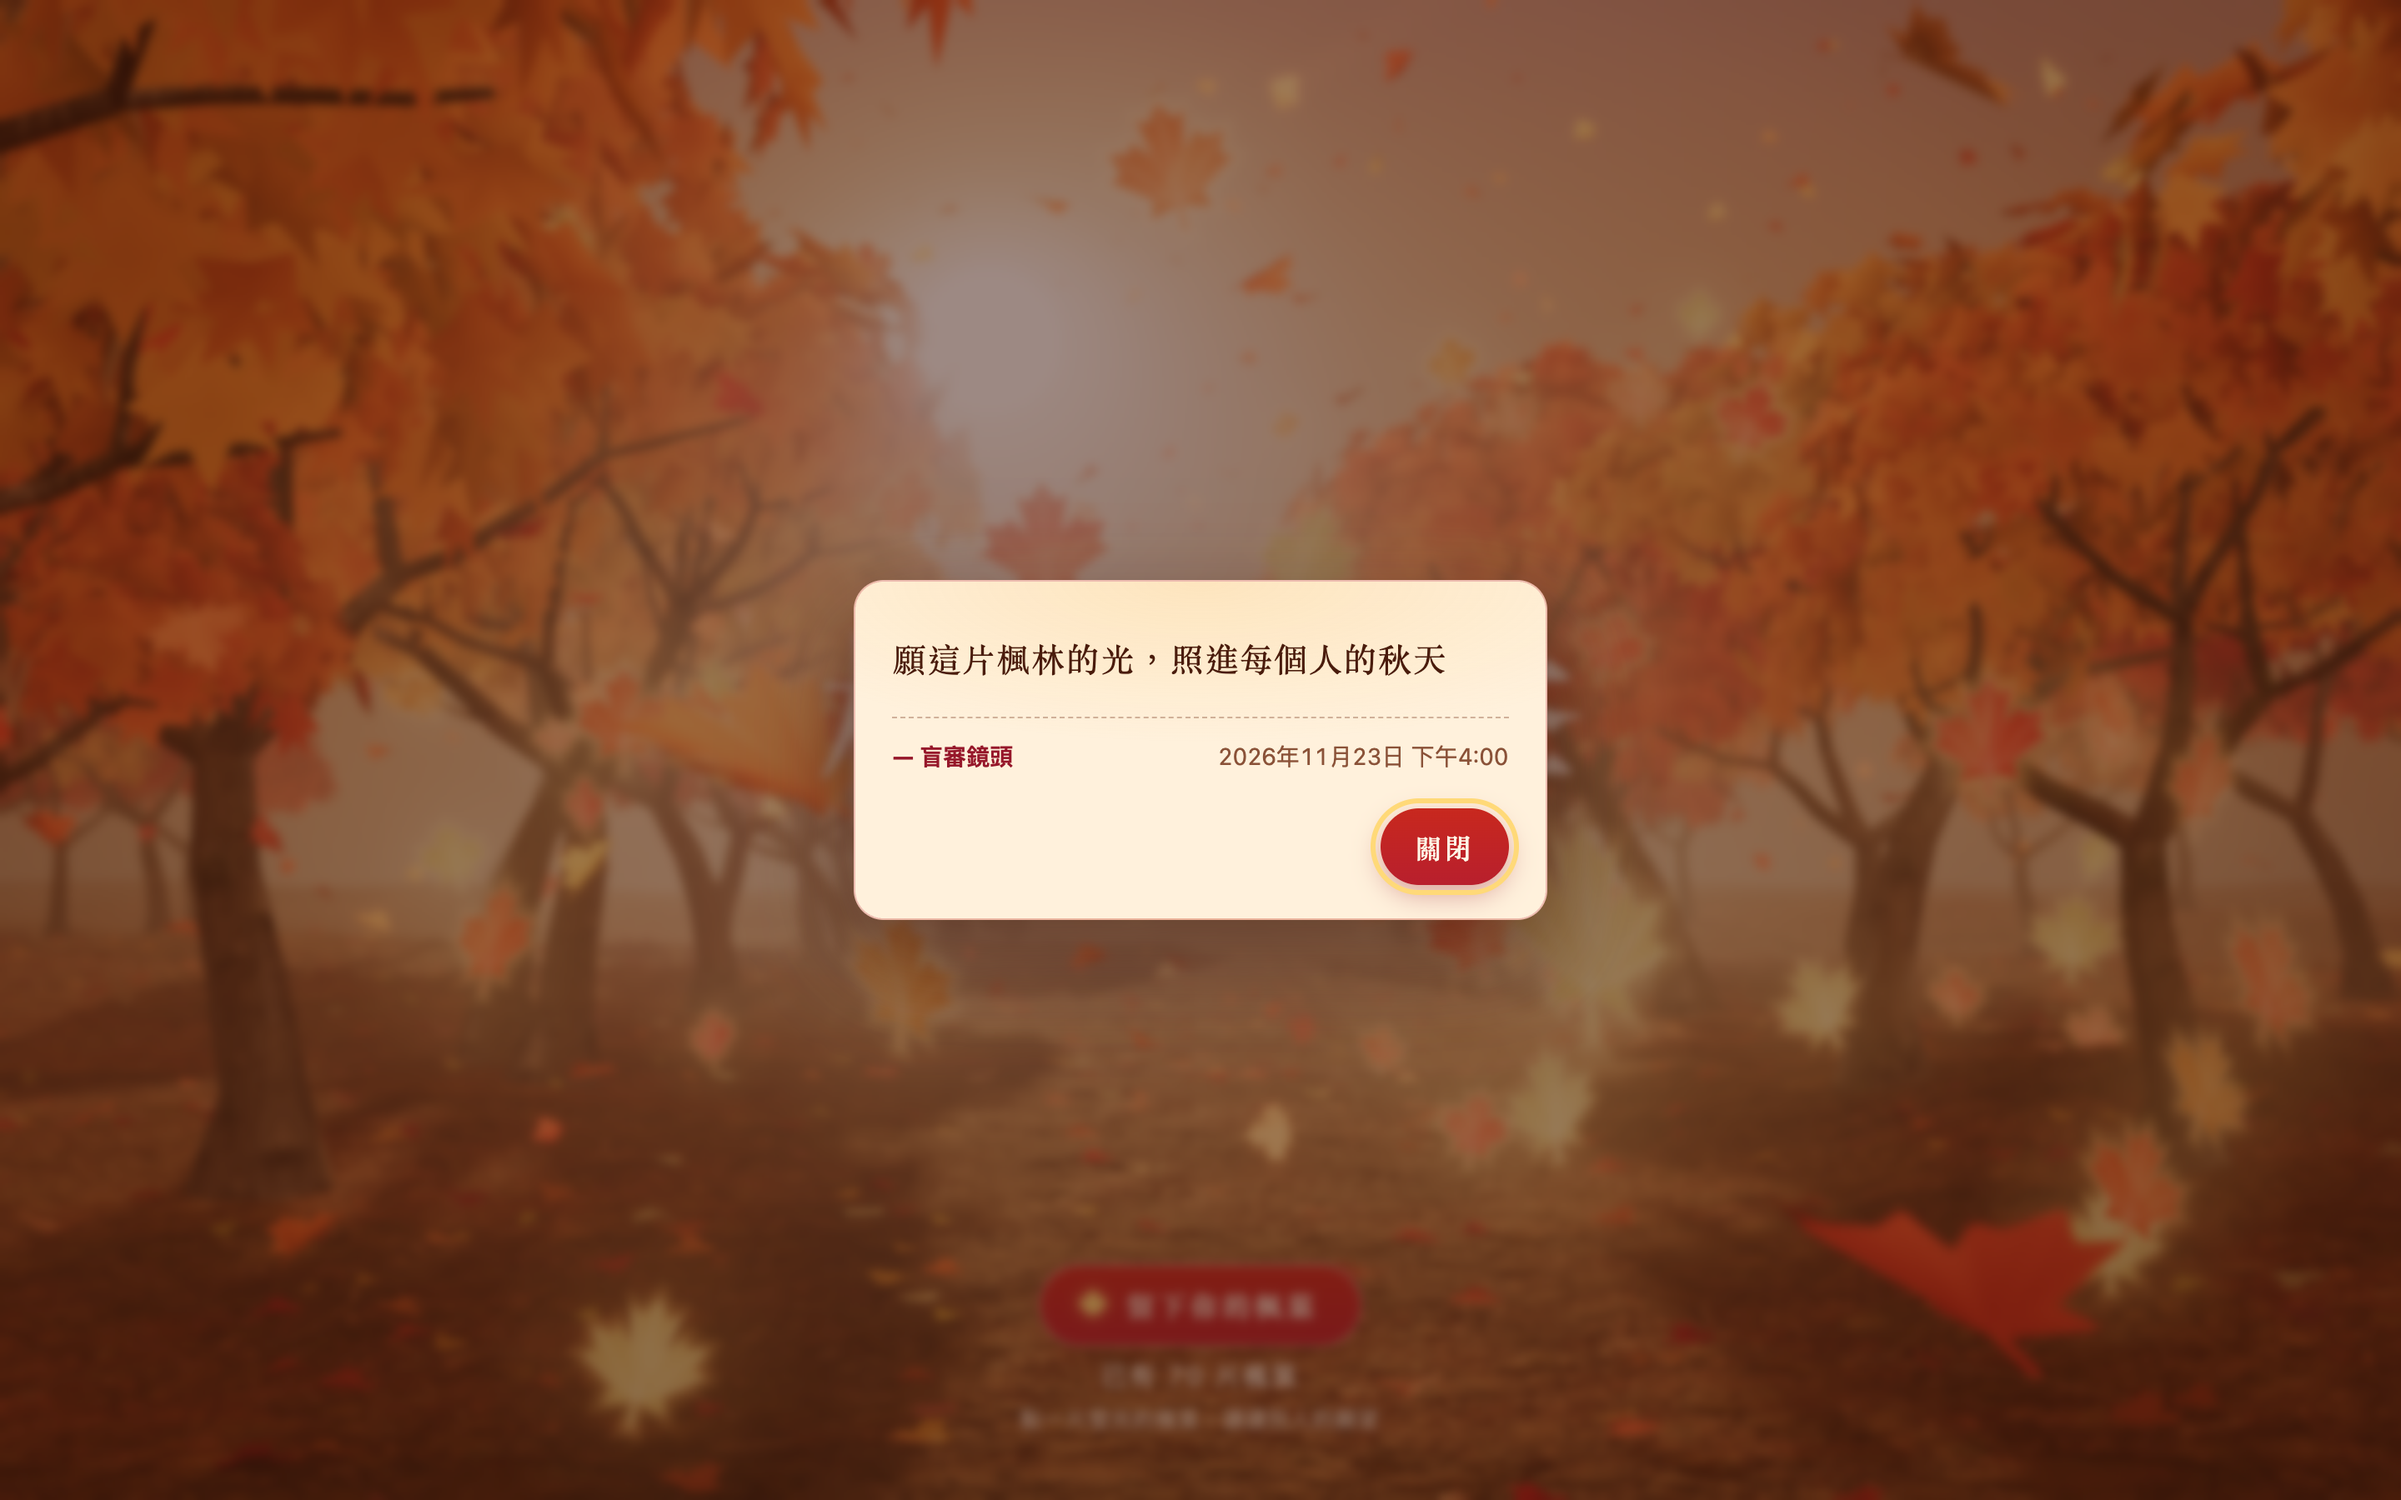
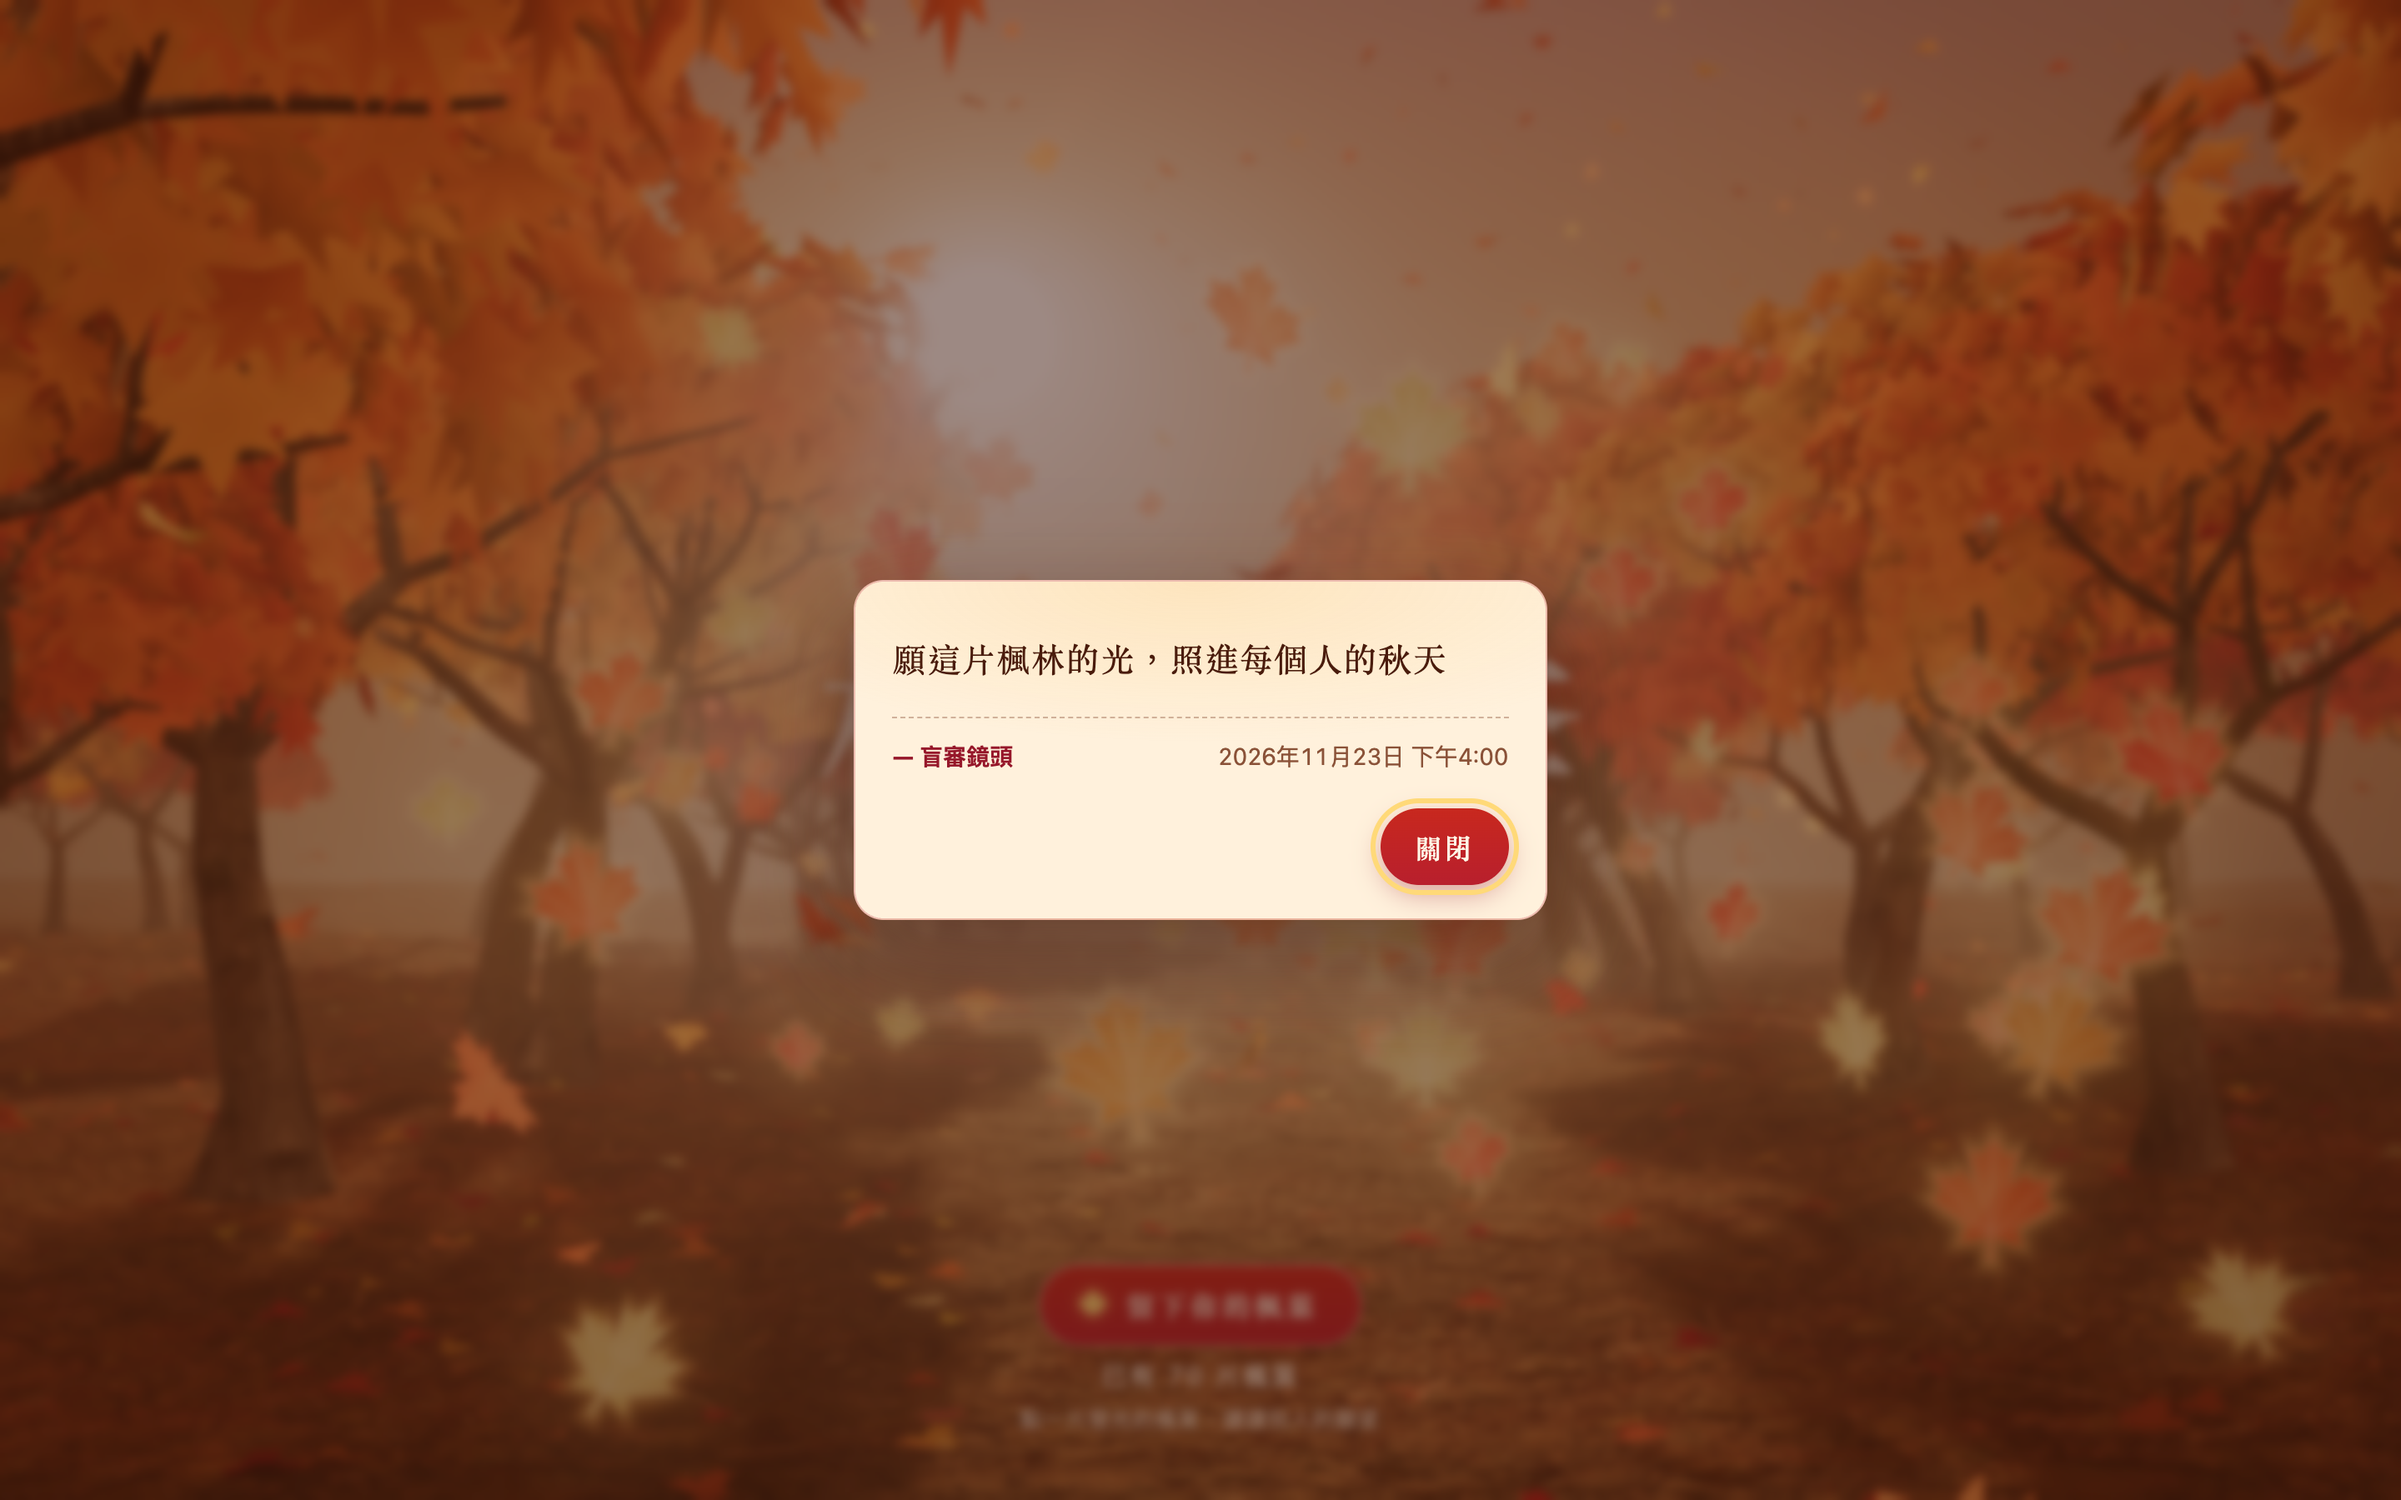
Visual r2: cheaper komorebi (shared warp/noise), fewer extra canopy leaves; comparison images and regression shots

diff --git a/src/komorebi.js b/src/komorebi.js
@@ -27,28 +27,29 @@ export const KOMOREBI_GLSL = /* glsl */ `
     return mix( mix( komorebiHash( i ), komorebiHash( i + vec2( 1.0, 0.0 ) ), u.x ),
                 mix( komorebiHash( i + vec2( 0.0, 1.0 ) ), komorebiHash( i + vec2( 1.0, 1.0 ) ), u.x ), u.y );
   }
-  // 葉縫圖樣：0..1，sharp 越大斑點越小越銳利
-  float komorebiGaps( vec3 worldPos, float threshold ) {
-    vec2 q = worldPos.xz + KOMOREBI_SUN.xz * ( ( 4.2 - worldPos.y ) / KOMOREBI_SUN.y );
-    float t = uKomorebiTime;
-    // 樹葉隨風晃動：葉縫的位置小幅來回擺動，不是整片平移
-    vec2 sway = vec2( sin( t * 0.9 + q.y * 0.35 ), cos( t * 0.7 + q.x * 0.31 ) ) * 0.08;
-    vec2 p = q * 2.6 + sway;
-    // domain warp：打散光斑的排列，不會一列一列像蓋章
-    p += vec2( komorebiNoise( q * 0.7 ), komorebiNoise( q * 0.7 + 5.2 ) ) * 1.8;
-    float gaps = komorebiNoise( p ) * 0.6 + komorebiNoise( p * 2.4 + 7.1 + sway * 2.0 ) * 0.4;
-    return smoothstep( threshold, threshold + 0.08, gaps );
-  }
   /**
    * 太陽直射光（已含陰影）換成有光斑的版本。
    * lit：已含陰影的光；open：沒有陰影時的光（太陽本身的顏色）；cover：抬頭是否有樹冠。
    * 照得到的地方：葉影把光打散成斑駁的一塊一塊；
    * 樹冠陰影裡：從葉縫漏下來的小光斑（太陽的針孔成像，沿光線方向拉長）。
+   * 兩種圖樣共用同一次投影與 domain warp（地面每個像素都要算，盡量省）。
    */
   vec3 komorebi( vec3 worldPos, vec3 lit, vec3 open, float cover ) {
     if ( cover < 0.01 ) return lit;
-    float dapple = mix( 0.3, 1.5, komorebiGaps( worldPos, 0.5 ) );
-    vec3 spots = open * komorebiGaps( worldPos + vec3( 3.7, 0.0, 1.3 ), 0.72 ) * 0.9;
+    // 沿太陽方向投到樹冠高度的平面
+    vec2 q = worldPos.xz + KOMOREBI_SUN.xz * ( ( 4.2 - worldPos.y ) / KOMOREBI_SUN.y );
+    float t = uKomorebiTime;
+    // 樹葉隨風晃動：葉縫的位置小幅來回擺動，不是整片平移
+    vec2 sway = vec2( sin( t * 0.9 + q.y * 0.35 ), cos( t * 0.7 + q.x * 0.31 ) ) * 0.08;
+    // domain warp：打散光斑的排列，不會一列一列像蓋章
+    vec2 p = q * 2.6 + sway + vec2( komorebiNoise( q * 0.7 ), komorebiNoise( q * 0.7 + 5.2 ) ) * 1.8;
+    float a = komorebiNoise( p );
+    float b = komorebiNoise( p * 2.4 + 7.1 + sway * 2.0 );
+    float gaps = a * 0.6 + b * 0.4;
+    // 第二組（陰影裡的小光斑）用同一組雜訊換個組合，不再多算
+    float gaps2 = a * 0.35 + b * 0.65;
+    float dapple = mix( 0.3, 1.5, smoothstep( 0.5, 0.58, gaps ) );
+    vec3 spots = open * smoothstep( 0.68, 0.76, gaps2 ) * 0.9;
     vec3 shade = max( open - lit, vec3( 0.0 ) );
     float shaded = dot( shade, vec3( 0.333 ) ) / max( dot( open, vec3( 0.333 ) ), 1e-4 );
     return mix( lit, lit * dapple + spots * shaded, cover );

diff --git a/src/trees.js b/src/trees.js
@@ -174,7 +174,7 @@ function createFoliageMaterial() {
 
 // ---- 樹冠重建：GLB 的葉子縮小、重新上色，再在每個葉叢裡補上更多小葉 ----
 const LEAF_SHRINK = 0.6; // GLB 原本的葉片（0.24–0.38）縮成這個比例
-const EXTRA_PER_CLUSTER = 30; // 每個葉叢額外補的小葉數
+const EXTRA_PER_CLUSTER = 22; // 每個葉叢額外補的小葉數
 // 補葉用的簡化楓葉輪廓（五裂，10 個外緣點），以中心點扇形三角化
 const SMALL_LEAF = [
   [0, -0.5], [0.3, -0.12], [0.5, -0.04], [0.3, 0.12], [0.36, 0.38],

diff --git a/_qa/visual/r2/critic.md b/_qa/visual/r2/critic.md
@@ -331,3 +331,26 @@
 - **[nit] 6** — 右下聲音鈕和提示文字「讀讀別人的願望」在垂直方向重疊，水平間距很小，視覺上擠在一起。→ 把聲音鈕上移，或把提示文字的右側留白加大。
 
 最高嚴重度：major
+
+## 第 12 輪（最終，截圖：_qa/visual/r2/round12/）
+
+## 總評
+整體已經有電影截圖的感覺：低角度暖逆光、遠景空氣透視、右上角的模糊前景枝，配色和 UI 也算統一。主要扣分在「質感一致性」：許願葉偏平面向量貼紙感，和 3D 場景不搭；近距離的樹冠葉片和地面光斑露出低多邊形與重複圖樣。「光柱、葉縫透光、落葉成堆」這幾項目標都只做到一部分，還沒有做足。
+
+## 缺陷清單
+
+- [major] 04 — 仰望樹冠時，近處葉片看得出是平面多邊形卡片：大量三角形、菱形的碎片，不是楓葉輪廓。左上與上緣最明顯，左緣也有零散葉片脫離枝條，懸在天空。→ 近景葉片改用帶 alpha 的楓葉貼圖或提高葉片解析度；把枝條末梢以外孤立的葉片剔除或收攏回枝條上。
+- [major] 01／02／06 — 許願葉是平塗加直線葉脈加外發光的向量貼紙風，沒有受場景光影、霧、景深影響，和寫實的 3D 樹林像兩套美術風格。偏淡黃的幾片（01 天空中段、02 中央新葉）在米色霧中對比偏低，反而不突出。→ 保留自發光，但加一點半透明葉肉、邊緣透光和輕微的距離霧與景深；淡黃款提高飽和度或加深外框，確保在亮背景上也讀得出來。
+- [major] 01／02 — 右側樹下（畫面右中到右下）許願葉擠成一團，約十五片以上互相重疊、光暈疊加成一大片亮霧。左半邊同樣在地面附近堆疊，構圖失衡又雜亂。→ 數量與位置不可改，那就降低重疊時光暈的累加（例如 bloom 上限，或依螢幕密度自動減弱單片光暈），讓每片仍分得開。
+- [major] 06 — 手機低畫質下，許願葉縮得很小、光暈很弱，和天空中飄落的橘紅裝飾葉（上半部多片）形狀、顏色幾乎一樣，一眼分不出哪些能點。→ 低畫質檔位放大許願葉的最小螢幕尺寸，並保留較明顯的外框光或閃爍節奏；裝飾葉調暗、去飽和，拉開差異。
+- [major] 05 — 右側地面的葉縫光斑排成一列列規律的橢圓亮點，呈條紋狀，看得出圖樣重複，不像自然的斑駁光。→ 光斑遮罩改成多尺度噪聲加上隨機旋轉與縮放，打散規律排列；光斑邊緣加柔化。
+- [major] 05 — 樹幹底部是直切面插進地面，沒有樹根隆起，也沒有接觸陰影或 AO（左側兩根最明顯，中間那根底部是水平切線），看起來像貼上去的圓柱。→ 加根部外擴的幾何或貼花，加上接觸陰影和 AO 暈染，並在根部周圍堆積落葉。
+- [minor] 01／05／06 — 落葉以稀疏的平貼為主，「樹下落葉成堆」的厚度和體積感不足；05 前景地面大面積只剩泥土、木屑紋理。→ 在樹根與路邊加入有高度的落葉堆（多層實例或視差貼花），密度往樹下集中。
+- [minor] 01 — 光柱只有左上太陽附近一兩條，而且很淡；中景樹冠之間沒有看到「一條條」光束，通透感主要靠整片霧在撐。→ 在中景兩排樹冠間補幾條窄而有明暗變化的體積光，同時略降整體霧的密度，讓光束對比出來。
+- [minor] 01／06 — 遠景地平線是一條平直的硬線（01 約在標題英文字下方，06 約在畫面 55% 高度），後面是均勻的米色霧牆；遠排樹幹形狀與傾斜角度重複，看得出是同一棵樹的複製。→ 地平線加起伏和霧的高度漸變；遠景樹加隨機旋轉、縮放與傾斜。
+- [minor] 04 — 中央那片模糊的紅色許願葉剛好落在「葉」字後方，削弱了標題的可讀性；畫面下緣只看到其他樹冠、看不到樹幹，空間關係奇怪，像鏡頭高過其他樹。兩側天空中段（約 70% 高度）有淡淡的水平帶狀色階。→ 標題區給許願葉加淡出遮罩或降低亮度；調整仰角限制，或下緣補上樹幹與霧；霧與天空加 dithering 消除色階斷層。
+- [minor] 06 — 地面左半部有拉長、糊掉的深色橢圓斑塊，低畫質下的光斑或貼花失真，看起來像髒污。→ 低畫質檔位改用較低頻、較柔的光斑，或直接關掉光斑改用整體明暗漸層。
+- [nit] 03 — 卡片打開時，背景遮罩把整個畫面壓成偏灰褐的髒色，失去暖色調；卡片沒有指出是哪一片葉子（和被點的葉子沒有視覺連結），卡片左下也留白過多。→ 遮罩改用暖色、低飽和的暗化加上模糊；被點的那片葉子保持高亮或連到卡片；收緊卡片的內距與高度。
+- [nit] 01／02 — 底部「點一片發光的楓葉，讀讀別人的願望」字級小、字重細，壓在中亮度地面上，對比勉強。→ 加淡淡的文字陰影或底部暗角漸層。
+
+最高嚴重度：major
